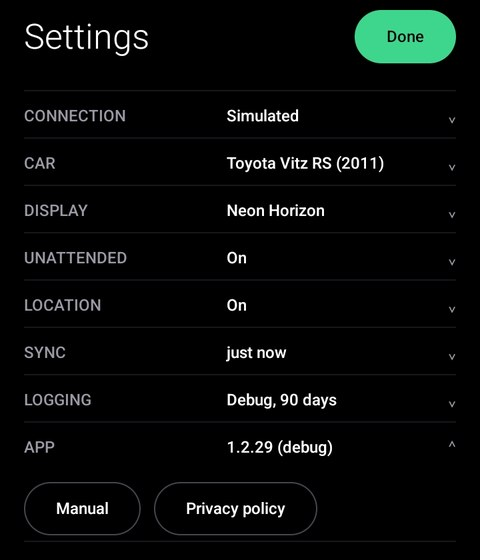
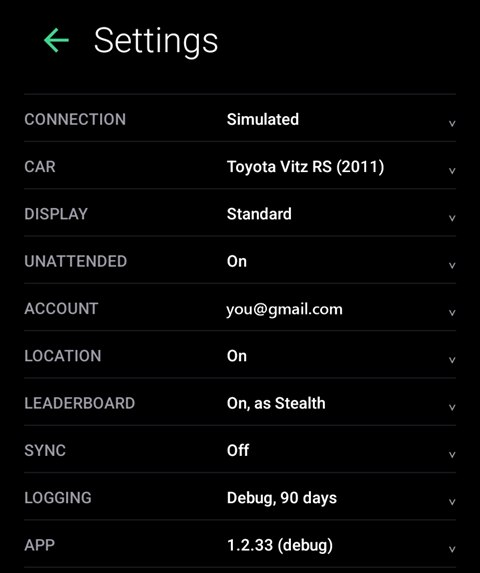
Leaderboard: privacy policy, manual and homepage for 1.3.1
The privacy policy says what joining sends (each trip's UTC day,
distance, fuel and ids made on the phone; the last 365 days at joining),
what other users see, what the portal keeps and for how long, that a
report keeps the reporter's email for the admin, that stars and names
hidden on the phone never leave it, and that deleting portal data or
leaving takes all of it. The manual covers the board, joining, the name
rules, holding a name to report or hide it, and Settings' new Account
row, with new screenshots of the leaderboard, History, a trip and
Settings (the email painted out).

diff --git a/privacy.html b/privacy.html
@@ -22,12 +22,13 @@
 <body>
 
 <h1>Privacy policy</h1>
-<p class="sub">OBD Dash, by Owl Software · last updated 27 November 2026</p>
+<p class="sub">OBD Dash, by Owl Software · last updated 28 November 2026</p>
 
 <p>
-  Almost everything OBD Dash records stays on your phone, including the route of each drive. Two
-  things leave it, and only if you choose them: backup to your own Google Drive, and the phone's
-  position, sent to the OBD Dash portal so you can see where your phone is. There is no account to
+  Almost everything OBD Dash records stays on your phone, including the route of each drive.
+  Three things leave it, and only if you choose them: backup to your own Google Drive, the phone's
+  position, sent to the OBD Dash portal so you can see where your phone is, and, if you join the
+  leaderboard, a summary of each trip, shown to other users as totals beside your display name. There is no account to
   create in order to use the app.
 </p>
 
@@ -72,7 +73,8 @@
       drive is recorded with the app closed, and the portal hears from a phone left in the car.</li>
   <li><strong>Notifications</strong> — optional, for the ongoing notification shown while the app
       watches for the car starting.</li>
-  <li><strong>Network access</strong> — used only for Google Drive backup, the portal, and the map
+  <li><strong>Network access</strong> — used only for Google Drive backup, the portal and the
+      leaderboard, the leaderboard's Google profile photos, and the map
       a route is drawn on.</li>
 </ul>
 
@@ -136,10 +138,40 @@
   <li>Sent over an encrypted connection (HTTPS) only.</li>
 </ul>
 
+<h2 id="leaderboard">The leaderboard</h2>
+<p>
+  This is optional and off until you join it in the app, under Settings, Leaderboard, which says
+  what is sent before you do. It uses the Google account you chose in the app, and nothing is sent
+  without it. When you join, the app sends to the OBD Dash portal:
+</p>
+<ul>
+  <li>the display name you pick, and, only if you turn it on, your Google profile photo, which the
+      portal reads from Google itself;</li>
+  <li>for each trip from the last 365 days, and then each new trip once a day: an identifier for the
+      trip and one for its car, both made on the phone so they carry no time or name, the date it
+      started (the day, not the time), the distance and the fuel used. Never the time of day, the
+      route, any position, or the car's name.</li>
+</ul>
+<ul>
+  <li><strong>Who can see it:</strong> other people signed in to OBD Dash see your display name,
+      your photo if you chose it, and four figures over the last 7, 30 and 365 days: fuel economy
+      against your own car's usual, fuel saved, distance and drive days. The board shows the top
+      ten of each, and each person their own place. It is not visible on the web. Owl Software
+      can see every member's name and account email, to run the service and to hide a name
+      somebody reports.</li>
+  <li><strong>Reports:</strong> if you report a name, the portal keeps that your account reported
+      it, until the name changes or either account leaves.</li>
+  <li><strong>How long:</strong> each trip is kept for 90 days, then only its day's totals, for a
+      year; nothing older is kept. Leaving deletes all of it at once.</li>
+  <li><strong>Favorites</strong> you star, and names you hide for yourself, stay on your phone and are never sent.</li>
+  <li>Kept in the same Cloudflare Worker and D1 database as the portal, sent over HTTPS only, not
+      sold or shared with anyone else.</li>
+</ul>
+
 <h2 id="delete">Deleting your data</h2>
 <p>
   Everything the app records is on your phone and, if you turned on backup, in your own Google
-  Drive. The one copy Owl Software holds is the portal's, if you agreed to it. You delete all of
+  Drive. The copies Owl Software holds are the portal's and the leaderboard's, if you chose them. You delete all of
   it yourself, like this:
 </p>
 <ol>
@@ -155,8 +187,10 @@
       portal data</em>; or, without the app, at
       <a href="https://obd-dash-portal.obd-dash-portal.workers.dev/delete">the portal's deletion
       page</a>, signing in with the same Google account. Either removes every phone under your
-      account. A phone with location on reports again at its next check-in; turn location off for OBD Dash
-      to stop it.</li>
+      account, and also takes you off the leaderboard. A phone with location on reports again at
+      its next check-in; turn location off for OBD Dash to stop it.</li>
+  <li><strong>The leaderboard:</strong> in the app, Settings, Leaderboard, then <em>Leave</em>.
+      Your name, every trip sent and their totals are deleted at once.</li>
 </ol>
 <p>
   <strong>What is kept:</strong> nothing. Deleted data is gone at once, and no other copy exists
@@ -167,7 +201,8 @@
 <h2>Children</h2>
 <p>
   The app is a vehicle instrument and is not directed at children. The only personal information
-  it collects is what the portal section above lists, and only from somebody who agrees to it.
+  it collects is what the portal and leaderboard sections above list, and only from somebody who
+  agrees to it.
 </p>
 
 <h2>Changes</h2>

diff --git a/manual.html b/manual.html
@@ -292,7 +292,7 @@
         weather, traffic and how you drive, so compare it over weeks rather than reading one
         figure as a verdict on the engine.</p>
     </div>
-    <div class="shot frame"><img src="img/history.jpg" width="480" height="959" loading="lazy" alt="History screen"></div>
+    <div class="shot frame"><img src="img/history.jpg" width="480" height="947" loading="lazy" alt="History screen"></div>
     <div class="text">
       <hr>
       <h3 id="backup">It survives a new phone<a class="anchor" href="#backup" aria-label="Link to this part">#</a></h3>
@@ -311,7 +311,7 @@
         came and went is something you would otherwise never know about. <b>Worth a look</b> is
         gentler: a reading outside its usual range, without being a fault.</p>
     </div>
-    <div class="shot frame"><img src="img/trip-detail.jpg" width="480" height="959" loading="lazy" alt="Trip detail"></div>
+    <div class="shot frame"><img src="img/trip-detail.jpg" width="480" height="947" loading="lazy" alt="Trip detail"></div>
   </div>
 
   <hr>
@@ -325,13 +325,30 @@
       <p>Routes are kept for your newest fifty drives. <b>Pin route</b> keeps one for good, up to 25 pinned on top of the fifty. In the trip list, a drive with a route shows a route mark, and a pinned one a pin.</p>
     </div>
     <div class="shot frame"><img src="img/route.jpg" width="480" height="959" loading="lazy" alt="A drive's route on a map, with the readings at one point along it"></div>
+  </div>
+
+  <hr>
+  <div class="beside">
     <div class="text">
+      <div class="k" id="leaderboard">The leaderboard<a class="anchor" href="#leaderboard" aria-label="Link to this part">#</a></div>
+      <p>The trophy at the top of History opens the leaderboard: who did best over the last 7, 30
+        and 365 days, by <b>Economy</b> (against their own car's usual, so any car can win),
+        <b>Fuel saved</b>, <b>Distance</b> and <b>Drive days</b>. It shows the top ten, and your own
+        place below them if you are further down. Tap the star beside a name to keep it under
+        <b>Favorites</b>. Hold a name to report it to the portal's admin, or to hide it on your
+        phone.</p>
+      <p>You can look before joining. To join, open <b>Settings, Leaderboard</b>, pick a display
+        name (swear words and slurs are refused) and, if you like, your Google photo. Joining sends each trip's date, distance, fuel used
+        and ids for the trip and its car, never its time, route or location, starting with the last 365 days. The
+        board is ranked once a night, so a new drive shows the next day. <b>Leave</b> deletes
+        everything sent.</p>
       <hr>
       <div class="k" id="cars">More than one car<a class="anchor" href="#cars" aria-label="Link to this part">#</a></div>
       <p>Cars are added and chosen in Settings, under <b>Car</b>.</p>
       <p>A drive saved under the wrong car can be opened and sent across with <b>Move to another
         car</b>, or deleted from there. Deleting a car takes its trips with it.</p>
     </div>
+    <div class="shot frame"><img src="img/leaderboard.jpg" width="480" height="943" loading="lazy" alt="The leaderboard: a podium for the top three, then the list with stars"></div>
   </div>
 </section>
 
@@ -399,7 +416,7 @@
         as you turn it. Otherwise allow a minute or two.</p>
     </div>
     <div class="shot">
-      <div class="frame"><img src="img/settings.jpg" width="480" height="560" loading="lazy" alt="Settings screen"></div>
+      <div class="frame"><img src="img/settings.jpg" width="480" height="573" loading="lazy" alt="Settings screen"></div>
       <p class="sm">Settings: one row per category, each showing where it stands. Tap one to open it.</p>
     </div>
     <div class="text">
@@ -426,6 +443,9 @@
   </p>
   <p><b>Settings, Location</b> shows what's working; <b>Allow location</b> asks again if location is
     off. To stop it all, turn location off for OBD Dash in your phone's settings.</p>
+  <p id="google-account"><b>Settings, Account</b> is the Google account backup, the portal and the
+    leaderboard use; the app asks for it when it first starts, and <b>Choose a Google account</b> there
+    asks again.</p>
   <p id="car-location"><b>Car location</b> sends the position to the OBD Dash portal every few minutes.
     Sign in there with the Google account you chose to see where the car is. <b>Delete my portal
       data</b> in <b>Settings, Location</b>, or <b>Delete my data</b> on the portal, removes what it

diff --git a/index.html b/index.html
@@ -40,6 +40,8 @@
       each of your cars, and keeps the history on the phone.</li>
   <li>If you allow location, records each drive's route and shows it on a map, colored by any
       reading, and can report where the phone is to the OBD Dash portal.</li>
+  <li>An optional leaderboard: economy against your own car's usual, fuel saved, distance and
+      drive days, shared with other OBD Dash users only if you join.</li>
   <li>Reads stored fault codes and freeze-frame data, can clear them, and says whether the car's
       emissions self-tests are ready for an inspection.</li>
   <li>Runs unattended if you let it: connects when the car starts, wakes the screen, and puts the
@@ -56,7 +58,8 @@
 </ul>
 
 <p>
-  Backing the history up to Google Drive and using location are both optional, and nothing
+  Backing the history up to Google Drive, using location and joining the leaderboard are all
+  optional, and nothing
   leaves the phone until you choose it. What each involves is set out in the
   <a href="privacy.html">privacy policy</a>.
 </p>
